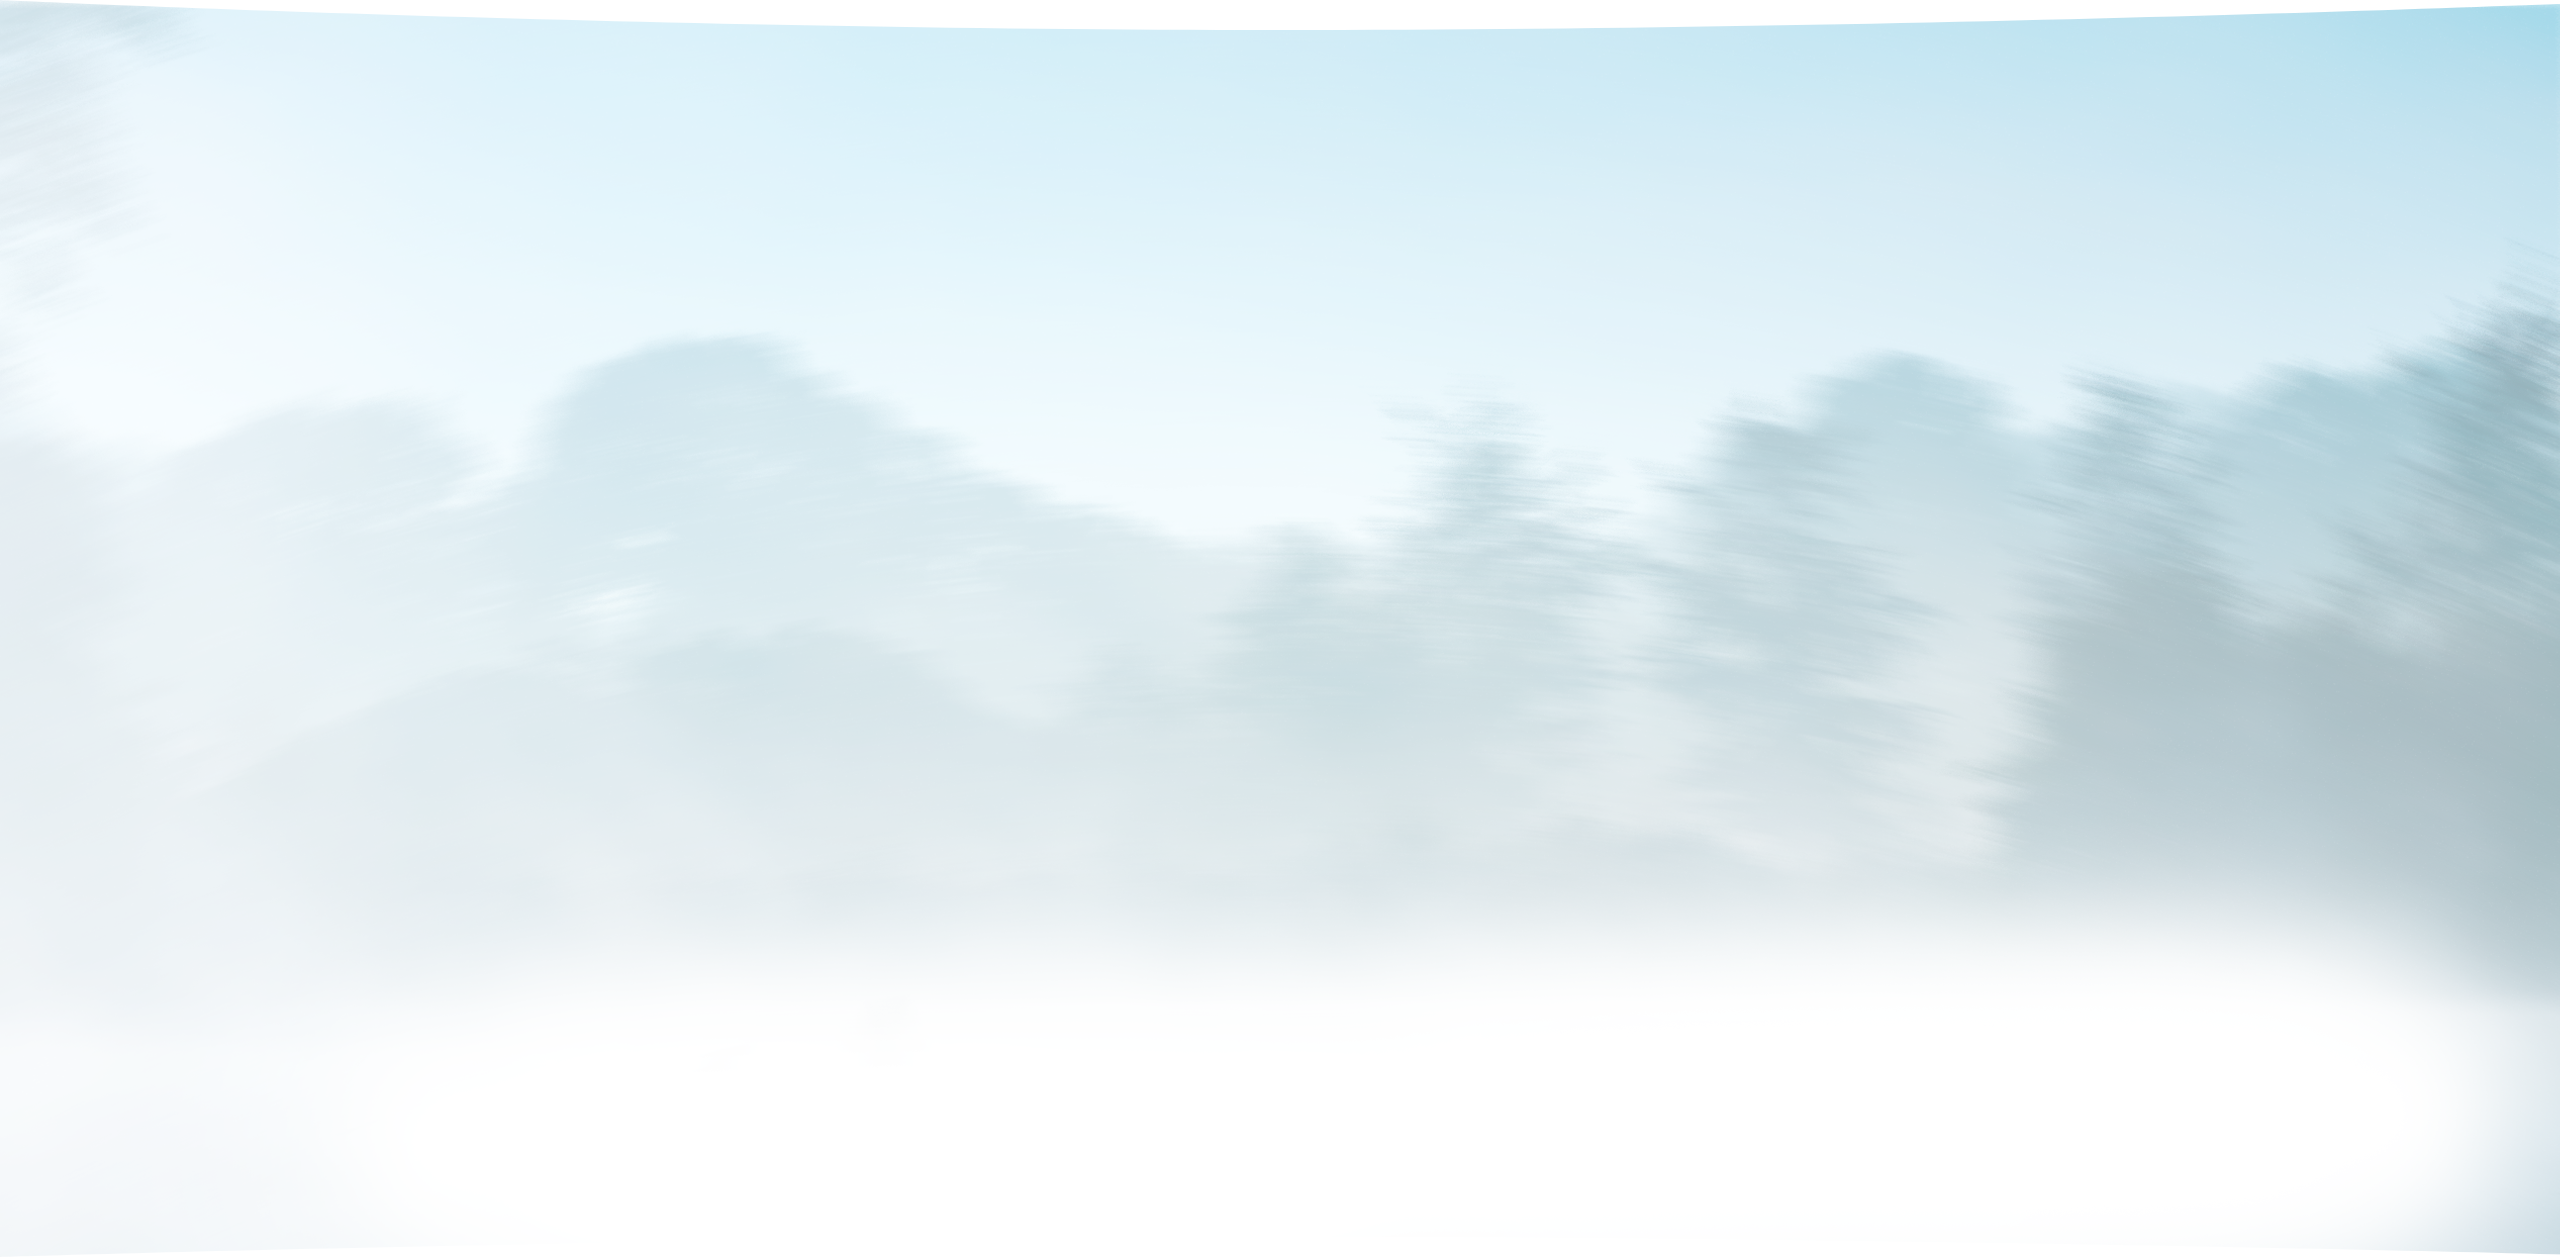
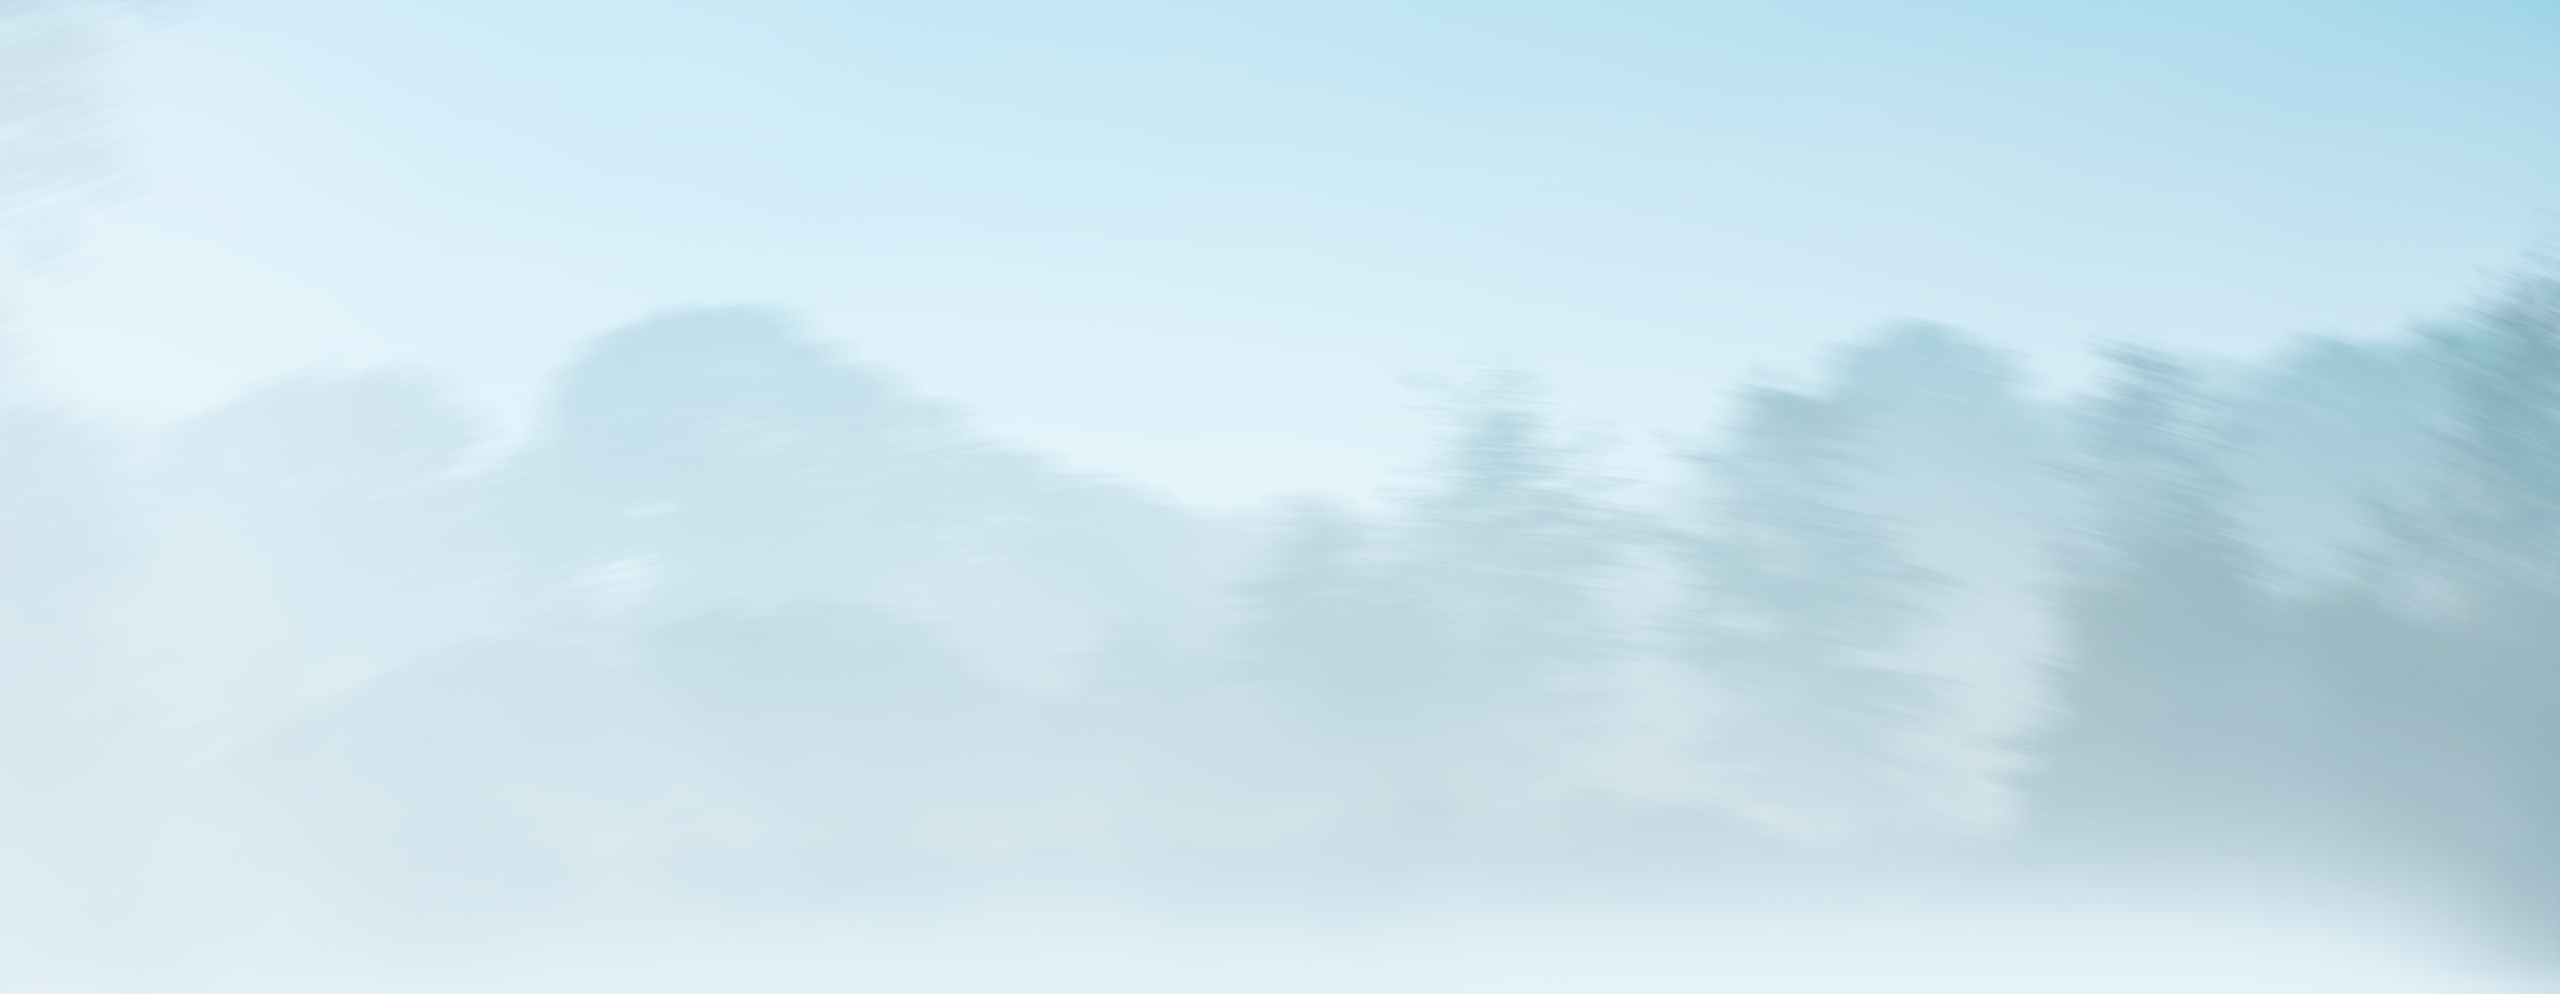
vlad

diff --git a/source/template/common/newlife.html b/source/template/common/newlife.html
@@ -1,6 +1,33 @@
 <section class="newlife block">
 	<div class="container">
 		<div class="title">Как изменится ваша жизнь<br> после избавления от проблем с мочеиспусканием</div>
-	
+		<div class="newlife-content">
+			<div class="newlife-content-box">
+				<div class="newlife-content-box__img"><img src="img/life1.png" alt=""></div>
+				<div class="newlife-content-box__text">Вы спокойно спите ночью, <br>а не встаете по несколько раз <br>для похода в туалет</div>
+			</div>
+			<div class="newlife-content-box">
+				<div class="newlife-content-box__img"><img src="img/life2.png" alt=""></div>
+				<div class="newlife-content-box__text">Вы больше не бегаете по несколько <br>раз в туалет, когда волнуетесь</div>
+			</div>
+			<div class="newlife-content-box">
+				<div class="newlife-content-box__img"><img src="img/life3.png" alt=""></div>
+				<div class="newlife-content-box__text">Вы можете пить много жидкости <br>и ни о чем не беспокоиться</div>
+			</div>
+			<div class="newlife-content-box">
+				<div class="newlife-content-box__img"><img src="img/life4.png" alt=""></div>
+				<div class="newlife-content-box__text">Вы можете пить много жидкости<br> и ни о чем не беспокоиться</div>
+			</div>
+			<div class="newlife-content-box">
+				<div class="newlife-content-box__img"><img src="img/life5.png" alt=""></div>
+				<div class="newlife-content-box__text">Вы можете спокойно сидеть в кино, театре и на других мероприятиях, не волнуясь, <br>что придется по много раз ходить в туалет</div>
+			</div>
+			<div class="newlife-content-box">
+				<div class="newlife-content-box__img"><img src="img/life6.png" alt=""></div>
+				<div class="newlife-content-box__text">Вы больше не чувствуете себя больным человеком - вы можете планировать <br>и реализовывать свою жизнь</div>
+			</div>
+		</div>
+		<div class="newlife-btitle">За 2018 год уже 15436 женщин уже избавились от частого мочеиспускания.</div>
+		<div class="newlife-bsubtitle">Дифорол поможет и вам!</div>
 	</div>
 </section>

diff --git a/source/style/common/footer.scss b/source/style/common/footer.scss
@@ -1,0 +1,109 @@
+// desctop
+.footer {
+  padding-top: 170px;
+  padding-bottom: 30px;
+  color: #757575;
+  font-size: 17px;
+  position: relative;
+}
+
+
+.footer__wrap {
+  display: flex;
+  justify-content: space-between;
+  align-items: center;
+}
+
+.footer__logo {
+  width: 54px;
+  height: 49px;
+  margin-right: 30px;
+}
+
+.footer__prod {
+line-height: 24px;
+}
+
+.footer__privacy {
+  display: block;
+   color: #757575;
+   text-decoration: underline;
+line-height: 24px;
+
+  &:hover {
+    text-decoration: underline;
+  }
+}
+
+.footer__left {
+  display: flex;
+  justify-content: flex-start;
+  align-items: center;
+}
+
+.footer__center {
+  text-align: center;
+}
+
+.footer__right {
+  text-align: right;
+  text-transform: uppercase;
+}
+
+.footer__numbers {
+line-height: 24px;
+
+  &:last-child {
+    margin-bottom: 0;
+  }
+}
+
+
+// media
+@media screen and (max-width: 1190px) {
+  .footer {
+    padding-top: 100px;
+  }
+
+}
+
+@media screen and (max-width: 1023px) {
+  .footer {
+    font-size: 16px;
+    padding-top: 40px;
+  }
+  .footer__logo {
+    margin-right: 10px;
+  }
+
+}
+
+@media screen and (max-width: 767px) {
+  .footer {
+    padding-top: 25px;
+    padding-bottom: 25px;
+  }
+  .footer__right {
+    display: none;
+  }
+
+  .footer__name {
+    display: none;
+  }
+
+  .footer__adress {
+    display: none;
+  }
+
+  .footer__wrap {
+    flex-direction: column;
+    justify-content: center;
+    align-items: center;
+  }
+
+  .footer__logo {
+    margin-right: 0;
+    margin-bottom: 10px;
+  }
+
+}

diff --git a/source/template/common/footer.html b/source/template/common/footer.html
@@ -1,0 +1,31 @@
+<footer class="footer">
+    <div class="container">
+        <div class="footer__wrap">
+            <div class="footer__left">
+                <div class="footer__logo">
+                    <img src="img/everad.png" alt="">
+                </div>
+                <div class="footer__name">
+                    <p class="footer__prod"><b>Дифорол</b></p>
+                    <p class="footer__copy">Copyright
+
+                        <script>
+                            var d = new Date();
+                            var y = d.getFullYear();
+                            document.write(y);
+                        </script>
+
+                    </p>
+                </div>
+            </div>
+            <div class="footer__center">
+                <a href="/privacy.html" class="footer__privacy" target="_blank">Политика конфиденциальности</a>
+                <p class="footer__adress">ООО "Восток" г. Москва, ул. Чоботовская, д.17</p>
+            </div>
+            <div class="footer__right">
+                <p class="footer__numbers">ИНН 7707251637</p>
+                <p class="footer__numbers">ОГРН 1157735921758</p>
+            </div>
+        </div>
+    </div>
+</footer>

diff --git a/source/style/app.scss b/source/style/app.scss
@@ -274,7 +274,10 @@ input::-ms-clear {
     display: none;
 }
 
-
+b{
+    font-weight: bold;
+    color: #000;
+}
 
 
 ::-webkit-input-placeholder {
@@ -316,6 +319,7 @@ input::-ms-clear {
 @import "common/slick.scss";
 @import "common/slick-theme.scss";
 @import "common/newlife.scss";
+@import "common/footer.scss";
 
 @media screen and (max-width: 1190px) {
     .container {

diff --git a/source/style/common/newlife.scss b/source/style/common/newlife.scss
@@ -1,8 +1,9 @@
 .newlife{
-	height: 1257px;
+	
 	background: url('../img/bg.png') no-repeat center center;
 	background-color: #e4f3f9;
 	position: relative;
+	background-size: cover;
 	z-index: 1;
 	&:before{
 		content: "";
